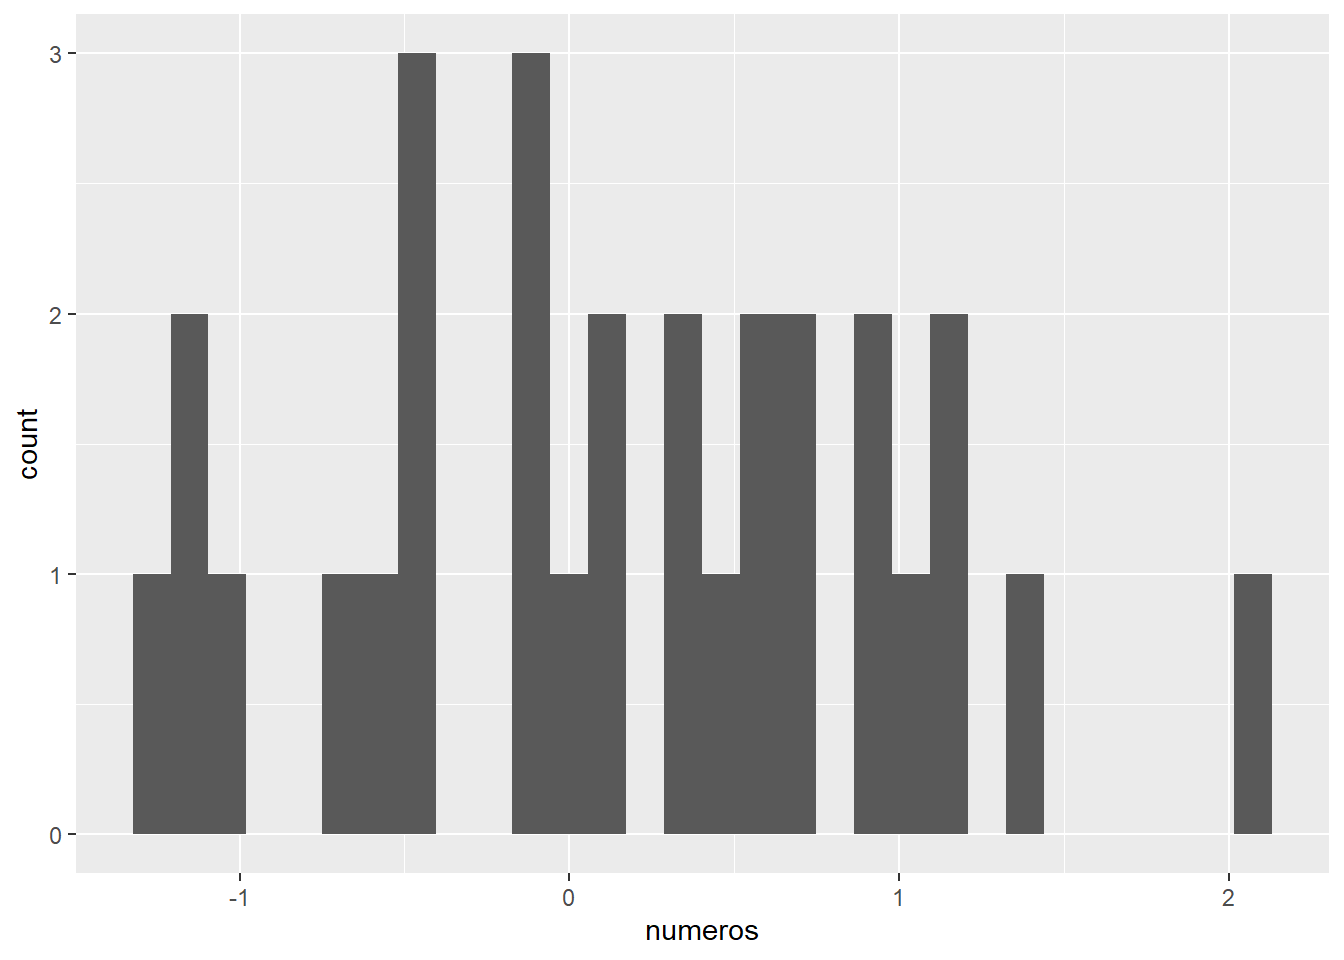
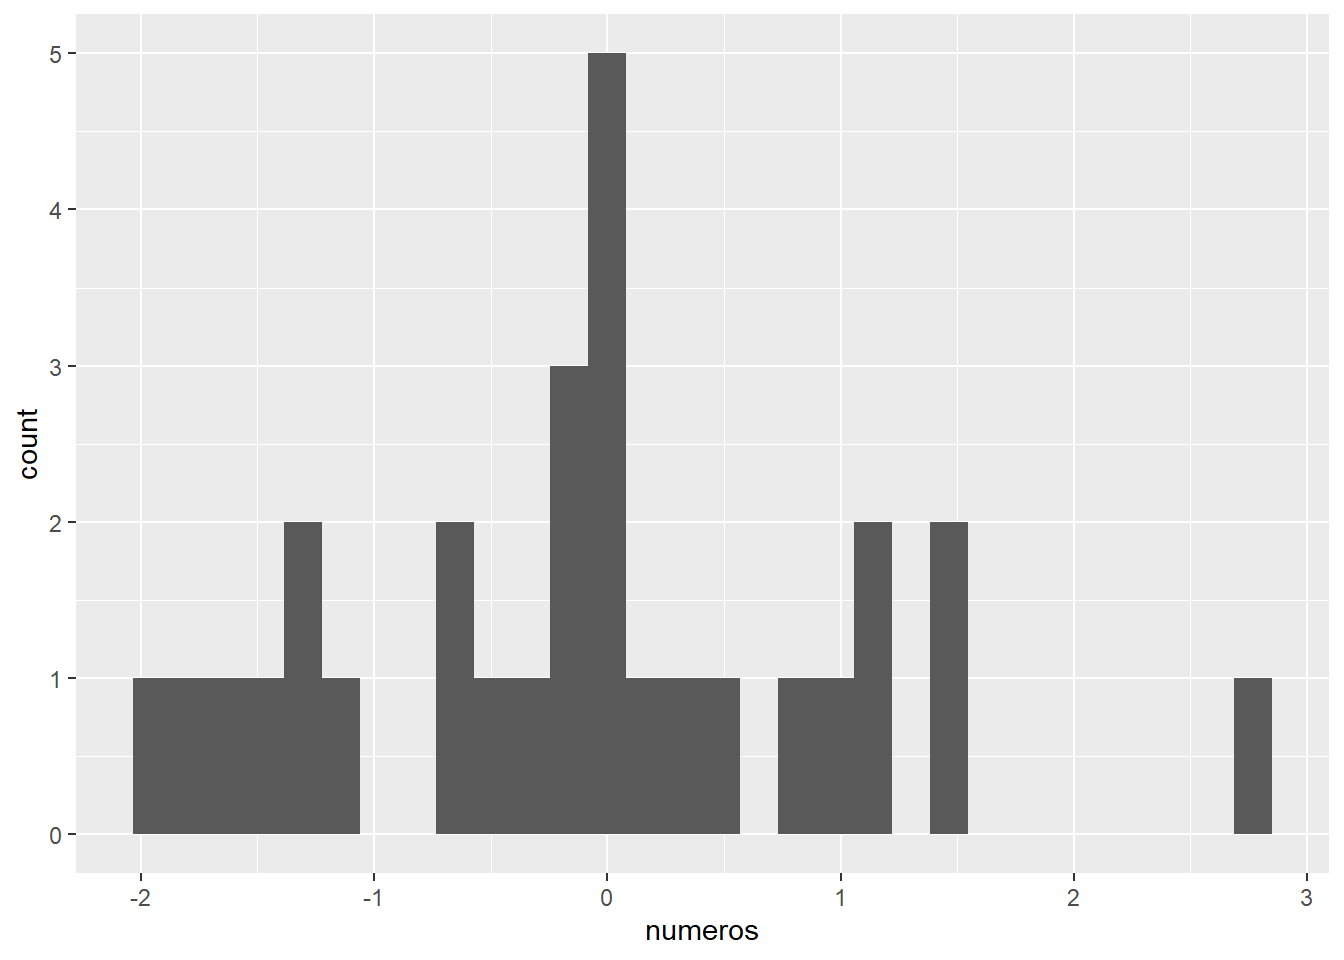
actualizacion

diff --git a/docs/posts/Ayuda R/index.html b/docs/posts/Ayuda R/index.html
@@ -6,8 +6,8 @@
 
 <meta name="viewport" content="width=device-width, initial-scale=1.0, user-scalable=yes">
 
-<meta name="author" content="Gabriel Andrade Ponce">
-<meta name="dcterms.date" content="2022-11-27">
+<meta name="author" content="Gabriel Andrade Ponce-Karen Lorena Velásque-C">
+<meta name="dcterms.date" content="2022-05-07">
 <meta name="description" content="Ayuda, Warnings, Errores y donde solucionarlos">
 
 <title>7. Errores en R y donde solucionarlos</title>
@@ -167,14 +167,14 @@ pre > code.sourceCode > span > a:first-child::before { text-decoration: underlin
       <div>
       <div class="quarto-title-meta-heading">Author</div>
       <div class="quarto-title-meta-contents">
-               <p>Gabriel Andrade Ponce </p>
+               <p>Gabriel Andrade Ponce-Karen Lorena Velásque-C </p>
             </div>
     </div>
       
       <div>
       <div class="quarto-title-meta-heading">Published</div>
       <div class="quarto-title-meta-contents">
-        <p class="date">November 27, 2022</p>
+        <p class="date">May 7, 2022</p>
       </div>
     </div>
     
@@ -227,23 +227,21 @@ pre > code.sourceCode > span > a:first-child::before { text-decoration: underlin
 <p>Por ejemplo, al cargar el paquete ggplot2 la consola me marcará un Warning, que dice que el paquete fue construido en la versión 4.1.3. Es una versión más actual que la mía, pero aún así el paquete funciona.</p>
 <div class="cell">
 <div class="sourceCode cell-code" id="cb3"><pre class="sourceCode r code-with-copy"><code class="sourceCode r"><span id="cb3-1"><a href="#cb3-1" aria-hidden="true" tabindex="-1"></a><span class="fu">library</span>(ggplot2)</span></code><button title="Copy to Clipboard" class="code-copy-button"><i class="bi"></i></button></pre></div>
-<div class="cell-output cell-output-stderr">
-<pre><code>Warning: package 'ggplot2' was built under R version 4.1.3</code></pre>
-</div>
 </div>
 <p>Otro ejemplo que vimos en la sección de gráficos es cuando tenemos un NA en la base de datos. Cuando graficas con ggplot, el te avisará cuando hay valores faltantes con un Warning. En este caso es el NA que agregué en la posición 19. A pesar de eso, todo funciona y el gráfico sale.</p>
 <div class="cell">
-<div class="sourceCode cell-code" id="cb5"><pre class="sourceCode r code-with-copy"><code class="sourceCode r"><span id="cb5-1"><a href="#cb5-1" aria-hidden="true" tabindex="-1"></a>numeros <span class="ot">&lt;-</span> <span class="fu">rnorm</span>(<span class="dv">30</span>, <span class="dv">0</span>,<span class="dv">1</span>) <span class="co"># Números aleatorios</span></span>
-<span id="cb5-2"><a href="#cb5-2" aria-hidden="true" tabindex="-1"></a>numeros[<span class="dv">19</span>] <span class="ot">&lt;-</span> <span class="cn">NA</span> <span class="co"># Agrego un NA</span></span>
-<span id="cb5-3"><a href="#cb5-3" aria-hidden="true" tabindex="-1"></a>x <span class="ot">&lt;-</span> <span class="fu">as.data.frame</span>(numeros)</span>
-<span id="cb5-4"><a href="#cb5-4" aria-hidden="true" tabindex="-1"></a></span>
-<span id="cb5-5"><a href="#cb5-5" aria-hidden="true" tabindex="-1"></a><span class="fu">ggplot</span>(x, <span class="fu">aes</span>(<span class="at">x=</span>numeros))<span class="sc">+</span></span>
-<span id="cb5-6"><a href="#cb5-6" aria-hidden="true" tabindex="-1"></a>  <span class="fu">geom_histogram</span>()</span></code><button title="Copy to Clipboard" class="code-copy-button"><i class="bi"></i></button></pre></div>
+<div class="sourceCode cell-code" id="cb4"><pre class="sourceCode r code-with-copy"><code class="sourceCode r"><span id="cb4-1"><a href="#cb4-1" aria-hidden="true" tabindex="-1"></a>numeros <span class="ot">&lt;-</span> <span class="fu">rnorm</span>(<span class="dv">30</span>, <span class="dv">0</span>,<span class="dv">1</span>) <span class="co"># Números aleatorios</span></span>
+<span id="cb4-2"><a href="#cb4-2" aria-hidden="true" tabindex="-1"></a>numeros[<span class="dv">19</span>] <span class="ot">&lt;-</span> <span class="cn">NA</span> <span class="co"># Agrego un NA</span></span>
+<span id="cb4-3"><a href="#cb4-3" aria-hidden="true" tabindex="-1"></a>x <span class="ot">&lt;-</span> <span class="fu">as.data.frame</span>(numeros)</span>
+<span id="cb4-4"><a href="#cb4-4" aria-hidden="true" tabindex="-1"></a></span>
+<span id="cb4-5"><a href="#cb4-5" aria-hidden="true" tabindex="-1"></a><span class="fu">ggplot</span>(x, <span class="fu">aes</span>(<span class="at">x=</span>numeros))<span class="sc">+</span></span>
+<span id="cb4-6"><a href="#cb4-6" aria-hidden="true" tabindex="-1"></a>  <span class="fu">geom_histogram</span>()</span></code><button title="Copy to Clipboard" class="code-copy-button"><i class="bi"></i></button></pre></div>
 <div class="cell-output cell-output-stderr">
 <pre><code>`stat_bin()` using `bins = 30`. Pick better value with `binwidth`.</code></pre>
 </div>
 <div class="cell-output cell-output-stderr">
-<pre><code>Warning: Removed 1 rows containing non-finite values (stat_bin).</code></pre>
+<pre><code>Warning: Removed 1 row containing non-finite outside the scale range
+(`stat_bin()`).</code></pre>
 </div>
 <div class="cell-output-display">
 <div>
@@ -255,12 +253,12 @@ pre > code.sourceCode > span > a:first-child::before { text-decoration: underlin
 </div>
 <p>Pero cuidado, hay warnings que pueden afectar futuras operaciones. Por ejemplo si por alguna razón me equivoco y creo un logaritmo base 10 de valores negativos tendré NAS. Si posteriormente quiero calcular la media de dicho vector, tendré un error por el echo de que tengo solo NAs</p>
 <div class="cell">
-<div class="sourceCode cell-code" id="cb8"><pre class="sourceCode r code-with-copy"><code class="sourceCode r"><span id="cb8-1"><a href="#cb8-1" aria-hidden="true" tabindex="-1"></a>seq_mala <span class="ot">&lt;-</span> <span class="fu">seq</span>(<span class="sc">-</span><span class="dv">20</span>,<span class="dv">10</span>)</span>
-<span id="cb8-2"><a href="#cb8-2" aria-hidden="true" tabindex="-1"></a>loga <span class="ot">&lt;-</span> <span class="fu">log10</span>(seq_mala)</span></code><button title="Copy to Clipboard" class="code-copy-button"><i class="bi"></i></button></pre></div>
+<div class="sourceCode cell-code" id="cb7"><pre class="sourceCode r code-with-copy"><code class="sourceCode r"><span id="cb7-1"><a href="#cb7-1" aria-hidden="true" tabindex="-1"></a>seq_mala <span class="ot">&lt;-</span> <span class="fu">seq</span>(<span class="sc">-</span><span class="dv">20</span>,<span class="dv">10</span>)</span>
+<span id="cb7-2"><a href="#cb7-2" aria-hidden="true" tabindex="-1"></a>loga <span class="ot">&lt;-</span> <span class="fu">log10</span>(seq_mala)</span></code><button title="Copy to Clipboard" class="code-copy-button"><i class="bi"></i></button></pre></div>
 <div class="cell-output cell-output-stderr">
-<pre><code>Warning: Se han producido NaNs</code></pre>
+<pre><code>Warning: NaNs produced</code></pre>
 </div>
-<div class="sourceCode cell-code" id="cb10"><pre class="sourceCode r code-with-copy"><code class="sourceCode r"><span id="cb10-1"><a href="#cb10-1" aria-hidden="true" tabindex="-1"></a><span class="fu">mean</span>(loga)</span></code><button title="Copy to Clipboard" class="code-copy-button"><i class="bi"></i></button></pre></div>
+<div class="sourceCode cell-code" id="cb9"><pre class="sourceCode r code-with-copy"><code class="sourceCode r"><span id="cb9-1"><a href="#cb9-1" aria-hidden="true" tabindex="-1"></a><span class="fu">mean</span>(loga)</span></code><button title="Copy to Clipboard" class="code-copy-button"><i class="bi"></i></button></pre></div>
 <div class="cell-output cell-output-stdout">
 <pre><code>[1] NaN</code></pre>
 </div>
@@ -270,7 +268,7 @@ pre > code.sourceCode > span > a:first-child::before { text-decoration: underlin
 <h2 class="anchored" data-anchor-id="errores-o-errors">Errores o errors</h2>
 <p>Los errores son mensajes fatales. Eso quiere decir que la función u operación se detiene y no se produce el resultado</p>
 <div class="cell">
-<div class="sourceCode cell-code" id="cb12"><pre class="sourceCode r code-with-copy"><code class="sourceCode r"><span id="cb12-1"><a href="#cb12-1" aria-hidden="true" tabindex="-1"></a><span class="st">"1"</span><span class="sc">+</span><span class="dv">2</span></span></code><button title="Copy to Clipboard" class="code-copy-button"><i class="bi"></i></button></pre></div>
+<div class="sourceCode cell-code" id="cb11"><pre class="sourceCode r code-with-copy"><code class="sourceCode r"><span id="cb11-1"><a href="#cb11-1" aria-hidden="true" tabindex="-1"></a><span class="st">"1"</span><span class="sc">+</span><span class="dv">2</span></span></code><button title="Copy to Clipboard" class="code-copy-button"><i class="bi"></i></button></pre></div>
 </div>
 <div class="quarto-figure quarto-figure-center">
 <figure class="figure">
@@ -285,26 +283,26 @@ pre > code.sourceCode > span > a:first-child::before { text-decoration: underlin
 <li>Lo primero aunque parezca lógico es leer bien el mensaje. Las personas suelen asustarse y simplemente se confunden, pero no leen de que se trata el error</li>
 </ol>
 <div class="cell">
-<div class="sourceCode cell-code" id="cb13"><pre class="sourceCode r code-with-copy"><code class="sourceCode r"><span id="cb13-1"><a href="#cb13-1" aria-hidden="true" tabindex="-1"></a><span class="fu">plot</span>(grafics)</span></code><button title="Copy to Clipboard" class="code-copy-button"><i class="bi"></i></button></pre></div>
+<div class="sourceCode cell-code" id="cb12"><pre class="sourceCode r code-with-copy"><code class="sourceCode r"><span id="cb12-1"><a href="#cb12-1" aria-hidden="true" tabindex="-1"></a><span class="fu">plot</span>(grafics)</span></code><button title="Copy to Clipboard" class="code-copy-button"><i class="bi"></i></button></pre></div>
 </div>
 <p><code>Error in plot(grafics) : object 'grafics' not found</code></p>
 <p>R no encuentra el objeto <code>grafics</code>. En este caso es porque simplemente no hemos generado ningún objeto con ese nombre. Muchas veces sucede porque olvidamos generar el objeto o porque lo escribimos de forma equivocada.</p>
 <ol start="2" type="1">
 <li><p>Verifica e inspecciona tus objetos. Muchas veces los errores se generan porque nuestro objeto no es del tipo correcto. Por ello es importante usar las funciones para explorar los objetos, visualizar tus tablas, etc.</p>
 <div class="cell">
-<div class="sourceCode cell-code" id="cb14"><pre class="sourceCode r code-with-copy"><code class="sourceCode r"><span id="cb14-1"><a href="#cb14-1" aria-hidden="true" tabindex="-1"></a>mat <span class="ot">&lt;-</span> <span class="fu">matrix</span>(letters[<span class="dv">5</span><span class="sc">:</span><span class="dv">20</span>], <span class="at">nrow =</span> <span class="dv">5</span>)</span></code><button title="Copy to Clipboard" class="code-copy-button"><i class="bi"></i></button></pre></div>
+<div class="sourceCode cell-code" id="cb13"><pre class="sourceCode r code-with-copy"><code class="sourceCode r"><span id="cb13-1"><a href="#cb13-1" aria-hidden="true" tabindex="-1"></a>mat <span class="ot">&lt;-</span> <span class="fu">matrix</span>(letters[<span class="dv">5</span><span class="sc">:</span><span class="dv">20</span>], <span class="at">nrow =</span> <span class="dv">5</span>)</span></code><button title="Copy to Clipboard" class="code-copy-button"><i class="bi"></i></button></pre></div>
 <div class="cell-output cell-output-stderr">
-<pre><code>Warning in matrix(letters[5:20], nrow = 5): la longitud de los datos [16] no es
-un submúltiplo o múltiplo del número de filas [5] en la matriz</code></pre>
+<pre><code>Warning in matrix(letters[5:20], nrow = 5): data length [16] is not a
+sub-multiple or multiple of the number of rows [5]</code></pre>
 </div>
-<div class="sourceCode cell-code" id="cb16"><pre class="sourceCode r code-with-copy"><code class="sourceCode r"><span id="cb16-1"><a href="#cb16-1" aria-hidden="true" tabindex="-1"></a><span class="fu">mean</span>(mat)</span></code><button title="Copy to Clipboard" class="code-copy-button"><i class="bi"></i></button></pre></div>
+<div class="sourceCode cell-code" id="cb15"><pre class="sourceCode r code-with-copy"><code class="sourceCode r"><span id="cb15-1"><a href="#cb15-1" aria-hidden="true" tabindex="-1"></a><span class="fu">mean</span>(mat)</span></code><button title="Copy to Clipboard" class="code-copy-button"><i class="bi"></i></button></pre></div>
 <div class="cell-output cell-output-stderr">
 <pre><code>Warning in mean.default(mat): argument is not numeric or logical: returning NA</code></pre>
 </div>
 <div class="cell-output cell-output-stdout">
 <pre><code>[1] NA</code></pre>
 </div>
-<div class="sourceCode cell-code" id="cb19"><pre class="sourceCode r code-with-copy"><code class="sourceCode r"><span id="cb19-1"><a href="#cb19-1" aria-hidden="true" tabindex="-1"></a><span class="fu">str</span>(mat)</span></code><button title="Copy to Clipboard" class="code-copy-button"><i class="bi"></i></button></pre></div>
+<div class="sourceCode cell-code" id="cb18"><pre class="sourceCode r code-with-copy"><code class="sourceCode r"><span id="cb18-1"><a href="#cb18-1" aria-hidden="true" tabindex="-1"></a><span class="fu">str</span>(mat)</span></code><button title="Copy to Clipboard" class="code-copy-button"><i class="bi"></i></button></pre></div>
 <div class="cell-output cell-output-stdout">
 <pre><code> chr [1:5, 1:4] "e" "f" "g" "h" "i" "j" "k" "l" "m" "n" "o" "p" "q" "r" "s" ...</code></pre>
 </div>
@@ -312,30 +310,30 @@ un submúltiplo o múltiplo del número de filas [5] en la matriz</code></pre>
 <li><p>Utiliza el help de cada función para saber que puede estar sucediendo y como solucionarlo</p></li>
 </ol>
 <div class="cell">
-<div class="sourceCode cell-code" id="cb21"><pre class="sourceCode r code-with-copy"><code class="sourceCode r"><span id="cb21-1"><a href="#cb21-1" aria-hidden="true" tabindex="-1"></a>mat2 <span class="ot">&lt;-</span> <span class="fu">matrix</span>(<span class="fu">sample</span>(<span class="dv">50</span>), <span class="at">nrow =</span> <span class="dv">5</span>)</span>
-<span id="cb21-2"><a href="#cb21-2" aria-hidden="true" tabindex="-1"></a>mat2[<span class="dv">5</span>,<span class="dv">5</span>] <span class="ot">&lt;-</span> <span class="cn">NA</span></span>
-<span id="cb21-3"><a href="#cb21-3" aria-hidden="true" tabindex="-1"></a>mat2</span></code><button title="Copy to Clipboard" class="code-copy-button"><i class="bi"></i></button></pre></div>
+<div class="sourceCode cell-code" id="cb20"><pre class="sourceCode r code-with-copy"><code class="sourceCode r"><span id="cb20-1"><a href="#cb20-1" aria-hidden="true" tabindex="-1"></a>mat2 <span class="ot">&lt;-</span> <span class="fu">matrix</span>(<span class="fu">sample</span>(<span class="dv">50</span>), <span class="at">nrow =</span> <span class="dv">5</span>)</span>
+<span id="cb20-2"><a href="#cb20-2" aria-hidden="true" tabindex="-1"></a>mat2[<span class="dv">5</span>,<span class="dv">5</span>] <span class="ot">&lt;-</span> <span class="cn">NA</span></span>
+<span id="cb20-3"><a href="#cb20-3" aria-hidden="true" tabindex="-1"></a>mat2</span></code><button title="Copy to Clipboard" class="code-copy-button"><i class="bi"></i></button></pre></div>
 <div class="cell-output cell-output-stdout">
 <pre><code>     [,1] [,2] [,3] [,4] [,5] [,6] [,7] [,8] [,9] [,10]
-[1,]   30   44   14    1   12   38    7   35   26    47
-[2,]   42   39   19   48   45   40   20   27   13    18
-[3,]   37   28   34   32   24   50   16   43   31    23
-[4,]   15   25   22   36    5   41   21    8   29    11
-[5,]    2   46    4   33   NA    3   17    9   10    49</code></pre>
+[1,]   40   32   18   45   13   17    3   37   16     9
+[2,]    7   34   50   38   21    8   48   15    5    47
+[3,]   36   39   41   42   25   23   30   24   11    29
+[4,]   20   33   43    4   22   46   35   28   44     2
+[5,]   12   31   19   27   NA    1    6   10   49    26</code></pre>
 </div>
-<div class="sourceCode cell-code" id="cb23"><pre class="sourceCode r code-with-copy"><code class="sourceCode r"><span id="cb23-1"><a href="#cb23-1" aria-hidden="true" tabindex="-1"></a><span class="fu">mean</span>(mat2)</span></code><button title="Copy to Clipboard" class="code-copy-button"><i class="bi"></i></button></pre></div>
+<div class="sourceCode cell-code" id="cb22"><pre class="sourceCode r code-with-copy"><code class="sourceCode r"><span id="cb22-1"><a href="#cb22-1" aria-hidden="true" tabindex="-1"></a><span class="fu">mean</span>(mat2)</span></code><button title="Copy to Clipboard" class="code-copy-button"><i class="bi"></i></button></pre></div>
 <div class="cell-output cell-output-stdout">
 <pre><code>[1] NA</code></pre>
 </div>
 </div>
 <div class="cell">
-<div class="sourceCode cell-code" id="cb25"><pre class="sourceCode r code-with-copy"><code class="sourceCode r"><span id="cb25-1"><a href="#cb25-1" aria-hidden="true" tabindex="-1"></a><span class="fu">help</span>(<span class="st">"mean"</span>)</span></code><button title="Copy to Clipboard" class="code-copy-button"><i class="bi"></i></button></pre></div>
+<div class="sourceCode cell-code" id="cb24"><pre class="sourceCode r code-with-copy"><code class="sourceCode r"><span id="cb24-1"><a href="#cb24-1" aria-hidden="true" tabindex="-1"></a><span class="fu">help</span>(<span class="st">"mean"</span>)</span></code><button title="Copy to Clipboard" class="code-copy-button"><i class="bi"></i></button></pre></div>
 </div>
 <p>Resulta que la función mean tiene un argumento llamado <code>na.rm</code> que sirve para especificar que no considere los NAs en el procedimiento</p>
 <div class="cell">
-<div class="sourceCode cell-code" id="cb26"><pre class="sourceCode r code-with-copy"><code class="sourceCode r"><span id="cb26-1"><a href="#cb26-1" aria-hidden="true" tabindex="-1"></a><span class="fu">mean</span>(mat2, <span class="at">na.rm =</span> <span class="cn">TRUE</span>)</span></code><button title="Copy to Clipboard" class="code-copy-button"><i class="bi"></i></button></pre></div>
+<div class="sourceCode cell-code" id="cb25"><pre class="sourceCode r code-with-copy"><code class="sourceCode r"><span id="cb25-1"><a href="#cb25-1" aria-hidden="true" tabindex="-1"></a><span class="fu">mean</span>(mat2, <span class="at">na.rm =</span> <span class="cn">TRUE</span>)</span></code><button title="Copy to Clipboard" class="code-copy-button"><i class="bi"></i></button></pre></div>
 <div class="cell-output cell-output-stdout">
-<pre><code>[1] 25.89796</code></pre>
+<pre><code>[1] 25.73469</code></pre>
 </div>
 </div>
 <ol start="4" type="1">

diff --git a/docs/index.html b/docs/index.html
@@ -266,7 +266,7 @@ Título
 </tr>
 </thead>
 <tbody class="list">
-<tr data-index="0" data-listing-date-sort="1669010400000" data-listing-file-modified-sort="1715138271063" data-listing-date-modified-sort="NaN" data-listing-reading-time-sort="3" data-listing-word-count-sort="568" data-listing-title-sort="1. Instalar R y RStudio" data-listing-filename-sort="index.qmd">
+<tr data-index="0" data-listing-date-sort="1714975200000" data-listing-file-modified-sort="1715141320288" data-listing-date-modified-sort="NaN" data-listing-reading-time-sort="3" data-listing-word-count-sort="568" data-listing-title-sort="1. Instalar R y RStudio" data-listing-filename-sort="index.qmd">
 <td>
 <span class="listing-image"><p class="card-img-top"><img src="posts\Instalar R y Rstudio\Uno.gif" style="height: 40px;"  class="thumbnail-image card-img"/></p></span>
 </td>
@@ -282,7 +282,7 @@ Título
 <a href="./posts/RyRstudio/index.html" class="title listing-title">2. ¿Qué son R y Rstudio?</a>
 </td>
 </tr>
-<tr data-index="2" data-listing-date-sort="1669183200000" data-listing-file-modified-sort="1715138271084" data-listing-date-modified-sort="NaN" data-listing-reading-time-sort="7" data-listing-word-count-sort="1201" data-listing-title-sort="3. Objetos, operadores y funciones" data-listing-filename-sort="index.qmd">
+<tr data-index="2" data-listing-date-sort="1651813200000" data-listing-file-modified-sort="1715141674959" data-listing-date-modified-sort="NaN" data-listing-reading-time-sort="7" data-listing-word-count-sort="1201" data-listing-title-sort="3. Objetos, operadores y funciones" data-listing-filename-sort="index.qmd">
 <td>
 <span class="listing-image"><div class="listing-item-img-placeholder card-img-top" style="height: 40px;">&nbsp;</div></span>
 </td>
@@ -314,7 +314,7 @@ Título
 <a href="./posts/Graficos/index.html" class="title listing-title">6. Gráficos básicos en R</a>
 </td>
 </tr>
-<tr data-index="6" data-listing-date-sort="1669528800000" data-listing-file-modified-sort="1715138270960" data-listing-date-modified-sort="NaN" data-listing-reading-time-sort="5" data-listing-word-count-sort="827" data-listing-title-sort="7. Errores en R y donde solucionarlos" data-listing-filename-sort="index.qmd">
+<tr data-index="6" data-listing-date-sort="1651899600000" data-listing-file-modified-sort="1715141522172" data-listing-date-modified-sort="NaN" data-listing-reading-time-sort="5" data-listing-word-count-sort="827" data-listing-title-sort="7. Errores en R y donde solucionarlos" data-listing-filename-sort="index.qmd">
 <td>
 <span class="listing-image"><p class="card-img-top"><img src="posts\Ayuda R\index_files\figure-html\unnamed-chunk-3-1.png" style="height: 40px;"  class="thumbnail-image card-img"/></p></span>
 </td>

diff --git a/docs/posts/Instalar R y Rstudio/index.html b/docs/posts/Instalar R y Rstudio/index.html
@@ -6,8 +6,8 @@
 
 <meta name="viewport" content="width=device-width, initial-scale=1.0, user-scalable=yes">
 
-<meta name="author" content="Gabriel Andrade Ponce">
-<meta name="dcterms.date" content="2022-11-21">
+<meta name="author" content="Gabriel Andrade Ponce/Karen Lorena Velásquez-C">
+<meta name="dcterms.date" content="2024-05-06">
 <meta name="description" content="Aprende el procedimiento para instalar R y su interfaz RStudio">
 
 <title>1. Instalar R y RStudio</title>
@@ -133,14 +133,14 @@ ul.task-list li input[type="checkbox"] {
       <div>
       <div class="quarto-title-meta-heading">Author</div>
       <div class="quarto-title-meta-contents">
-               <p>Gabriel Andrade Ponce </p>
+               <p>Gabriel Andrade Ponce/Karen Lorena Velásquez-C </p>
             </div>
     </div>
       
       <div>
       <div class="quarto-title-meta-heading">Published</div>
       <div class="quarto-title-meta-contents">
-        <p class="date">November 21, 2022</p>
+        <p class="date">May 6, 2024</p>
       </div>
     </div>
     

diff --git a/docs/posts/Operadores objetos y funciones/index.html b/docs/posts/Operadores objetos y funciones/index.html
@@ -7,7 +7,7 @@
 <meta name="viewport" content="width=device-width, initial-scale=1.0, user-scalable=yes">
 
 <meta name="author" content="Gabriel Andrade Ponce">
-<meta name="dcterms.date" content="2022-11-23">
+<meta name="dcterms.date" content="2022-05-06">
 <meta name="description" content="Lo básico de R, tipos de objetos, operadores y funciones">
 
 <title>3. Objetos, operadores y funciones</title>
@@ -174,7 +174,7 @@ pre > code.sourceCode > span > a:first-child::before { text-decoration: underlin
       <div>
       <div class="quarto-title-meta-heading">Published</div>
       <div class="quarto-title-meta-contents">
-        <p class="date">November 23, 2022</p>
+        <p class="date">May 6, 2022</p>
       </div>
     </div>
     
